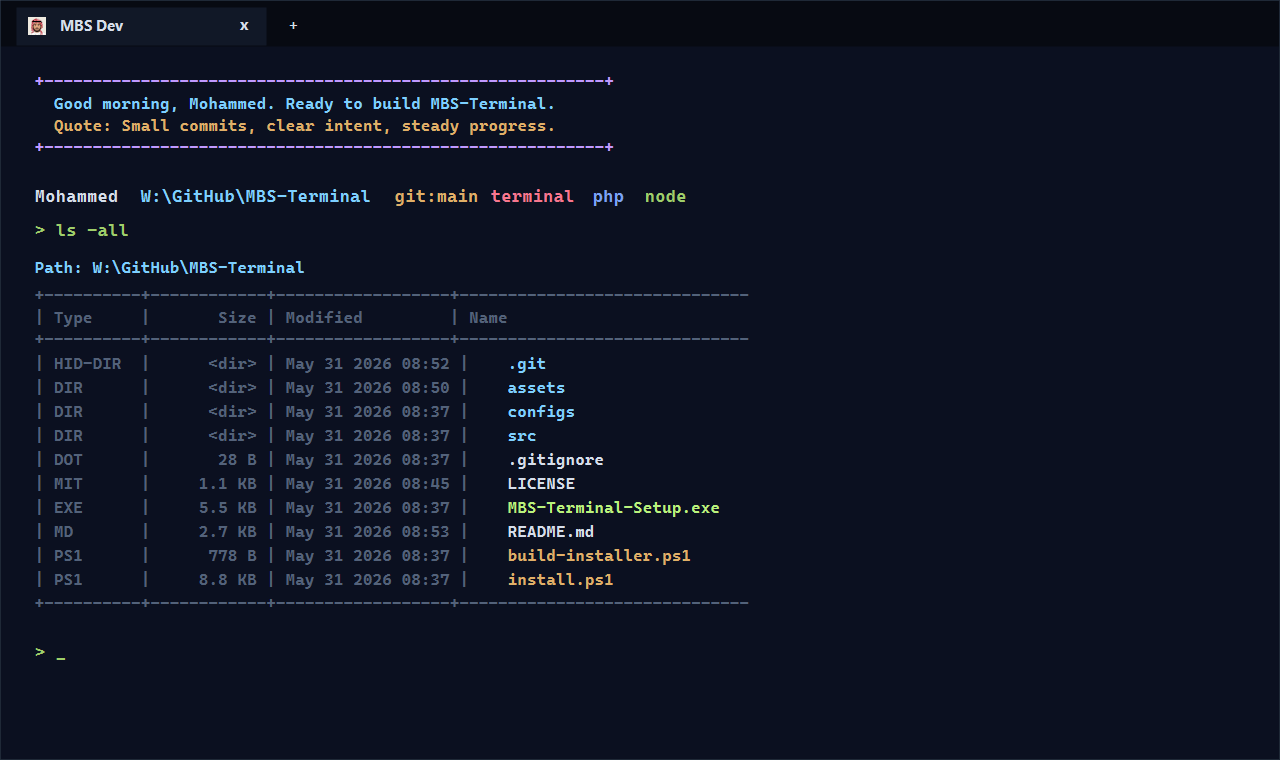
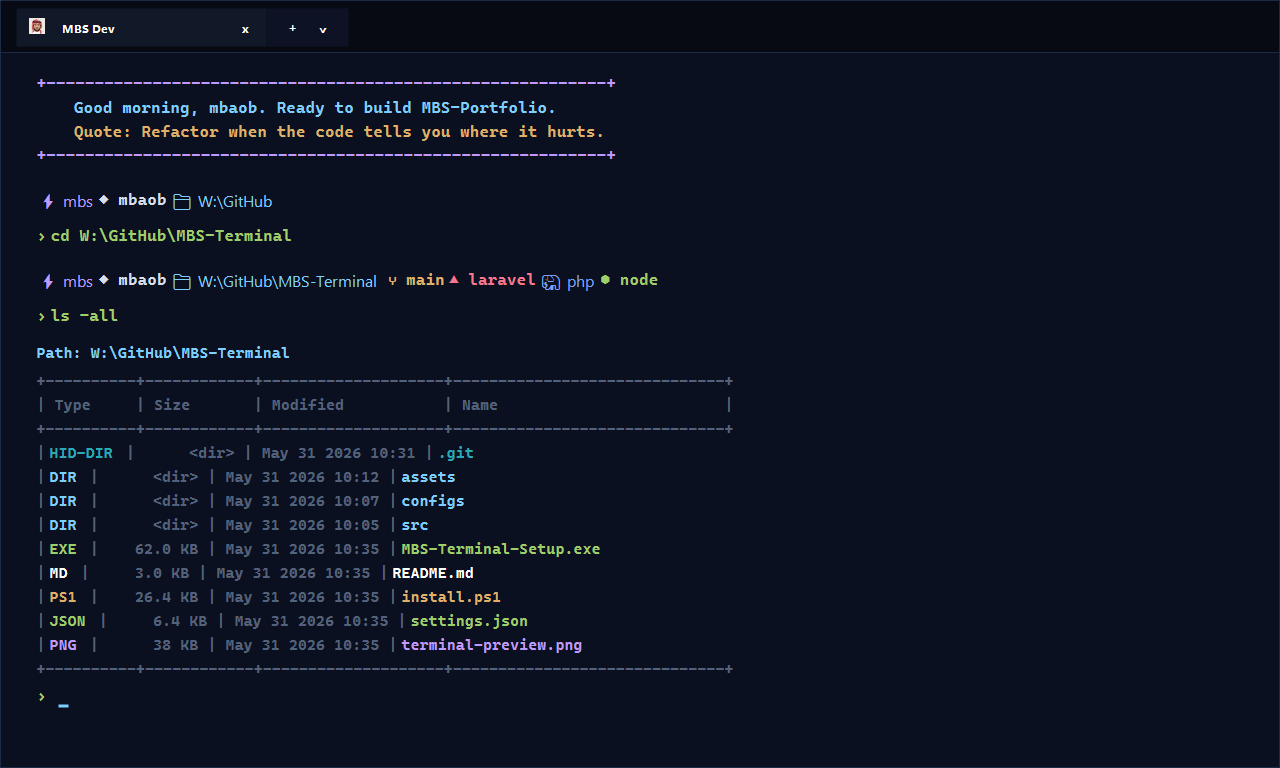
Refresh README terminal preview

diff --git a/README.md b/README.md
@@ -2,100 +2,212 @@
 
 [![License: MIT](https://img.shields.io/badge/license-MIT-blue.svg)](LICENSE)
 [![Platform: Windows](https://img.shields.io/badge/platform-Windows-0078D4.svg)](#requirements)
+[![Shell: PowerShell](https://img.shields.io/badge/shell-PowerShell-5391FE.svg)](#what-the-installer-changes)
+[![Laravel Ready](https://img.shields.io/badge/Laravel-ready-FF2D20.svg)](#laravel-workflow)
 [![Sponsor](https://img.shields.io/badge/sponsor-GitHub%20Sponsors-EA4AAA.svg)](https://github.com/sponsors/mbs047)
 
-MBS Terminal is my Windows Terminal setup for Laravel development. It packages the same theme, prompt, icons, welcome message, aliases, autocomplete behavior, and custom `ls` helpers that I use locally.
+MBS Terminal is a polished Windows Terminal setup for Laravel and PHP development. It installs the MBS Midnight theme, pixel avatar profile icons, a colorful Starship prompt, a friendly PowerShell welcome banner, Laravel shortcuts, smarter autocomplete, and custom directory tools.
 
 ![MBS Terminal preview](assets/screenshots/terminal-preview.png)
 
-## Features
+## Highlights
 
-- Windows Terminal theme with acrylic transparency and the MBS Midnight color scheme.
-- Pixel avatar tab icon and custom profile icons.
-- Starship prompt configured for Laravel, Git, PHP, Node, Python, package version, duration, and time.
-- PowerShell welcome banner with a random encouraging quote on every new terminal session.
-- Laravel-focused shortcuts:
-  - `pa migrate` runs `php artisan migrate`.
-  - `pat` runs `php artisan test --compact`.
-  - `pclear` runs `php artisan optimize:clear`.
-  - `proutes` runs `php artisan route:list --except-vendor`.
-  - `ptinker` runs `php artisan tinker`.
-  - `ldev` starts the best available dev command.
-  - `nr dev` runs `npm run dev`.
-- Improved autocomplete behavior:
-  - `Tab` accepts the gray suggestion.
-  - `RightArrow` accepts the full suggestion.
-  - `Alt+RightArrow` accepts the next suggestion word.
-  - `Ctrl+Space` opens the completion menu.
-- Custom `ls` table view:
-  - `ls` hides dot-prefixed entries.
-  - `ls -la` or `ls -all` shows hidden files.
-  - `ls -nav` opens an arrow-key folder navigator.
-  - `ls -file`, `ls -dir`, and `ls -recursive` filter the listing.
+- Premium dark Windows Terminal profile with acrylic, Mica-friendly tab styling, and the **MBS Midnight** palette.
+- Pixel avatar tab icon plus dedicated profile icons for PowerShell, Command Prompt, and Azure Cloud Shell.
+- Starship prompt with Laravel, Git, PHP, Node, Python, package, command duration, and clock segments.
+- Installer wizard for PHP `8.2`, `8.3`, `8.4`, `8.5`, Composer, Laravel Installer, Valet for Windows, Pint, Envoy, Vapor CLI, Starship, and updates.
+- Empty `cd` opens the interactive folder navigator. `cd path\to\folder` stays normal.
+- Custom `ls` table view with hidden-file, file-only, directory-only, recursive, and navigator modes.
+- PowerShell welcome banner that uses your chosen setup name or your Windows username.
+- Restore utility that backs up and removes the MBS configuration safely.
+
+## Prompt Icons
+
+| Icon | Segment | Color | Meaning |
+| --- | --- | --- | --- |
+| `⚡` | `mbs` | `#C099FF` | MBS prompt brand mark |
+| `◆` | username | `#D6DEEB` | Display name from the installer or Windows user |
+| `📁` | directory | `#7DCFFF` | Current working directory |
+| `⑂` | Git branch | `#E0AF68` | Current branch name |
+| `▲` | Laravel | `#F7768E` | Appears when an `artisan` file is detected |
+| `🐘` | PHP | `#7AA2F7` | PHP context |
+| `⬢` | Node | `#9ECE6A` | Node.js context |
+| `◇` | package | `#C099FF` | Package version context |
+| `🐍` | Python | `#9ECE6A` | Python context |
+| `⏱` | duration | `#53627A` | Long-running command duration |
+| `🕒` | time | `#53627A` | Right-aligned clock |
+| `›` / `×` | prompt | green / red | Success or error prompt marker |
+
+## Git Status Marks
+
+| Mark | Meaning |
+| --- | --- |
+| `⇡` | Ahead of remote |
+| `⇣` | Behind remote |
+| `⇕` | Diverged from remote |
+| `×` | Conflict |
+| `−` | Deleted file |
+| `●` | Modified file |
+| `»` | Renamed file |
+| `✓` | Staged file |
+| `≡` | Stashed changes |
+| `?` | Untracked file |
+
+## MBS Midnight Palette
+
+| Role | Hex |
+| --- | --- |
+| Background | `#0B1020` |
+| Foreground | `#D6DEEB` |
+| Cyan | `#7DCFFF` |
+| Purple | `#C099FF` |
+| Red | `#F7768E` |
+| Yellow | `#E0AF68` |
+| Green | `#9ECE6A` |
+| Blue | `#7AA2F7` |
+| Muted | `#53627A` |
+
+## Included Profile Icons
+
+| Asset | Used For |
+| --- | --- |
+| `assets/terminal-icons/mbs-pixel-avatar.png` | Main **MBS Dev Shell** tab icon |
+| `assets/terminal-icons/mbs-dev-shell.png` | PowerShell developer shell profile |
+| `assets/terminal-icons/mbs-cmd.png` | Command Prompt profile |
+| `assets/terminal-icons/mbs-cloud.png` | Azure Cloud Shell profile |
+| `assets/terminal-icons/mbs-terminal.ico` | Setup and restore executable icon |
+
+## Laravel Workflow
+
+| Command | What It Does |
+| --- | --- |
+| `pa migrate` | Runs `php artisan migrate` |
+| `pat` | Runs `php artisan test --compact` |
+| `pclear` | Runs `php artisan optimize:clear` |
+| `proutes` | Runs `php artisan route:list --except-vendor` |
+| `ptinker` | Runs `php artisan tinker` |
+| `ldev` | Starts the best available local dev command |
+| `nr dev` | Runs `npm run dev` |
+
+## Directory Tools
+
+| Command | Behavior |
+| --- | --- |
+| `cd` | Opens the interactive folder navigator |
+| `cd W:\GitHub\MBS-Terminal` | Normal PowerShell directory change |
+| `ls` | Shows a clean table and hides dot-prefixed entries |
+| `ls -la` or `ls -all` | Shows hidden files |
+| `ls -nav` | Opens the arrow-key folder navigator |
+| `ls -file` | Shows files only |
+| `ls -dir` | Shows directories only |
+| `ls -recursive` | Shows recursive results |
+
+Navigator keys: `Up` / `Down` select, `Enter` opens, `Backspace` goes up, `Esc` or `Q` exits.
+
+## `ls` Color Guide
+
+| Type | Color | Examples |
+| --- | --- | --- |
+| Directories | Cyan | `assets`, `configs`, `src` |
+| Hidden directories | Dark cyan | `.git` |
+| Executables | Green | `.exe`, `.cmd`, `.bat`, `.msi` |
+| PowerShell scripts | Yellow | `.ps1`, `.psm1`, `.psd1` |
+| JavaScript / TypeScript | Yellow | `.js`, `.jsx`, `.ts`, `.tsx`, `.mjs`, `.cjs` |
+| PHP / Blade | Magenta | `.php`, `.phtml`, `.blade.php` |
+| Config files | Green | `.json`, `.jsonc`, `.toml`, `.yml`, `.yaml`, `.xml`, `.config` |
+| Stylesheets | Blue | `.css`, `.scss`, `.sass`, `.less` |
+| Documents | White | `.md`, `.markdown`, `.txt`, `.rst` |
+| Images and icons | Purple | `.png`, `.jpg`, `.jpeg`, `.gif`, `.svg`, `.ico`, `.webp` |
+| Archives and env files | Dark yellow | `.zip`, `.7z`, `.rar`, `.tar`, `.gz`, `.env` |
+| Lock and log files | Dark gray | `.lock`, `.log` |
+
+## Autocomplete
+
+| Key | Behavior |
+| --- | --- |
+| `Tab` | Accepts the gray suggestion |
+| `RightArrow` | Accepts the full suggestion |
+| `Alt+RightArrow` | Accepts the next suggestion word |
+| `Ctrl+Space` | Opens the completion menu |
 
 ## Requirements
 
 - Windows 10 or Windows 11.
 - Windows Terminal.
 - Windows PowerShell 5.1 or later.
-- Starship for the prompt. The installer can try to install it through `winget` when you pass `-InstallDependencies`.
-- Optional: Git, PHP, Node.js, Python, and Laravel tooling for the development shortcuts.
+- Starship for the prompt. The setup wizard can install it through `winget`.
+- Optional: Git, PHP, Node.js, Python, Composer, and Laravel tooling.
 
 ## Install
 
-Clone or download this repository, then run:
+Run the visual installer:
 
 ```powershell
 .\MBS-Terminal-Setup.exe
 ```
 
-To also try installing missing dependencies such as Starship through `winget`, run:
+The wizard can install or configure:
 
-```powershell
-.\install.ps1 -InstallDependencies
-```
-
-You can choose a default terminal starting directory:
-
-```powershell
-.\install.ps1 -StartingDirectory "W:\GitHub\MBS-Portfolio"
-```
+- Terminal profile and icons.
+- PHP `8.2`, `8.3`, `8.4`, or `8.5`.
+- Existing PHP directory from Laragon, XAMPP, Herd, or a custom build.
+- Composer.
+- Laravel Installer.
+- Valet for Windows.
+- Laravel Pint, Envoy, and Vapor CLI.
+- Starship.
+- Current-user or all-users install scope.
 
 After installation, open a new Windows Terminal tab.
 
+## Script Install
+
+The GUI wraps `install.ps1`. You can also run the script directly:
+
+```powershell
+.\install.ps1 -InstallDependencies -InstallPhp -PhpVersion 8.4 -InstallComposer -InstallLaravel
+```
+
+Useful options:
+
+```powershell
+.\install.ps1 -StartingDirectory "W:\GitHub\MBS-Portfolio"
+.\install.ps1 -DisplayName "mbaob"
+.\install.ps1 -InstallScope CurrentUser
+.\install.ps1 -InstallValet -InstallPint -InstallEnvoy -InstallVapor
+.\install.ps1 -PhpDirectory "C:\laragon\bin\php\php-8.4"
+```
+
 ## Restore Defaults
 
-If you want to undo the setup and go back to a plain Windows Terminal configuration, run:
+Run the restore utility:
 
 ```powershell
 .\MBS-Terminal-Restore.exe
 ```
 
-Or run the PowerShell restore script directly:
+Or run the script directly:
 
 ```powershell
 .\restore-default.ps1
 ```
 
-The restore script creates timestamped backups before changing anything. It resets Windows Terminal settings, removes the MBS PowerShell startup hooks, and moves the MBS Starship/helper/icon files aside.
-
-## Safety Notes
-
-The installer changes local terminal configuration. It creates a timestamped backup of Windows Terminal `settings.json` before writing the MBS Terminal settings.
-
-Review `install.ps1` before running it if you are installing from a fork or from an untrusted download. You can also build the launcher locally with `.\build-installer.ps1`.
+The restore script creates timestamped backups before changing anything. It resets Windows Terminal settings, removes MBS PowerShell startup hooks, and moves the MBS Starship, helper, and icon files aside.
 
 ## What The Installer Changes
 
 - Copies terminal icons to `%USERPROFILE%\.config\terminal-icons`.
 - Copies Starship config to `%USERPROFILE%\.config\starship.toml`.
 - Copies PowerShell helpers to `%USERPROFILE%\.config\powershell\laravel-dev.ps1`.
-- Updates the current Windows PowerShell profile to load the helpers and Starship.
+- Updates the current Windows PowerShell profile to load helpers and Starship.
 - Updates Windows Terminal `settings.json` and creates a timestamped backup first.
+- Optionally installs supported development tools through `winget` and Composer.
+
+## Safety Notes
+
+The installer changes local terminal configuration and creates backups before writing Windows Terminal settings. Review `install.ps1` before running it if you are installing from a fork or untrusted download.
 
 ## Build The EXEs
-
-The launchers are intentionally small. They run `install.ps1` and `restore-default.ps1` through Windows PowerShell.
 
 ```powershell
 .\build-installer.ps1
@@ -103,13 +215,9 @@ The launchers are intentionally small. They run `install.ps1` and `restore-defau
 
 The build uses the built-in .NET Framework C# compiler on Windows.
 
-## Contributing
+## Support
 
-Issues and pull requests are welcome. Please use the GitHub issue templates, keep changes focused, and see [CONTRIBUTING.md](CONTRIBUTING.md) before opening a pull request.
-
-For responsible disclosure, see [SECURITY.md](SECURITY.md). For setup help, see [SUPPORT.md](SUPPORT.md).
-
-## Support This Project
+For setup help, see [SUPPORT.md](SUPPORT.md). For responsible disclosure, see [SECURITY.md](SECURITY.md). For contributing, see [CONTRIBUTING.md](CONTRIBUTING.md).
 
 If MBS Terminal saves you setup time, you can support it through [GitHub Sponsors](https://github.com/sponsors/mbs047). Donations are optional and never required to use or contribute to the project.
 